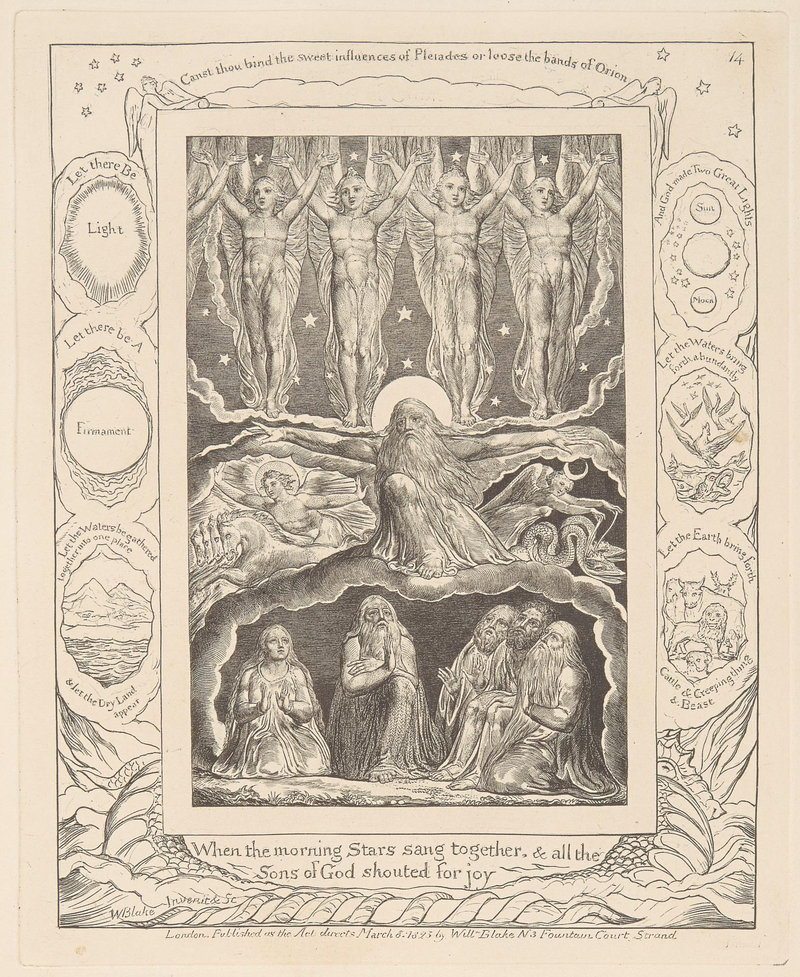
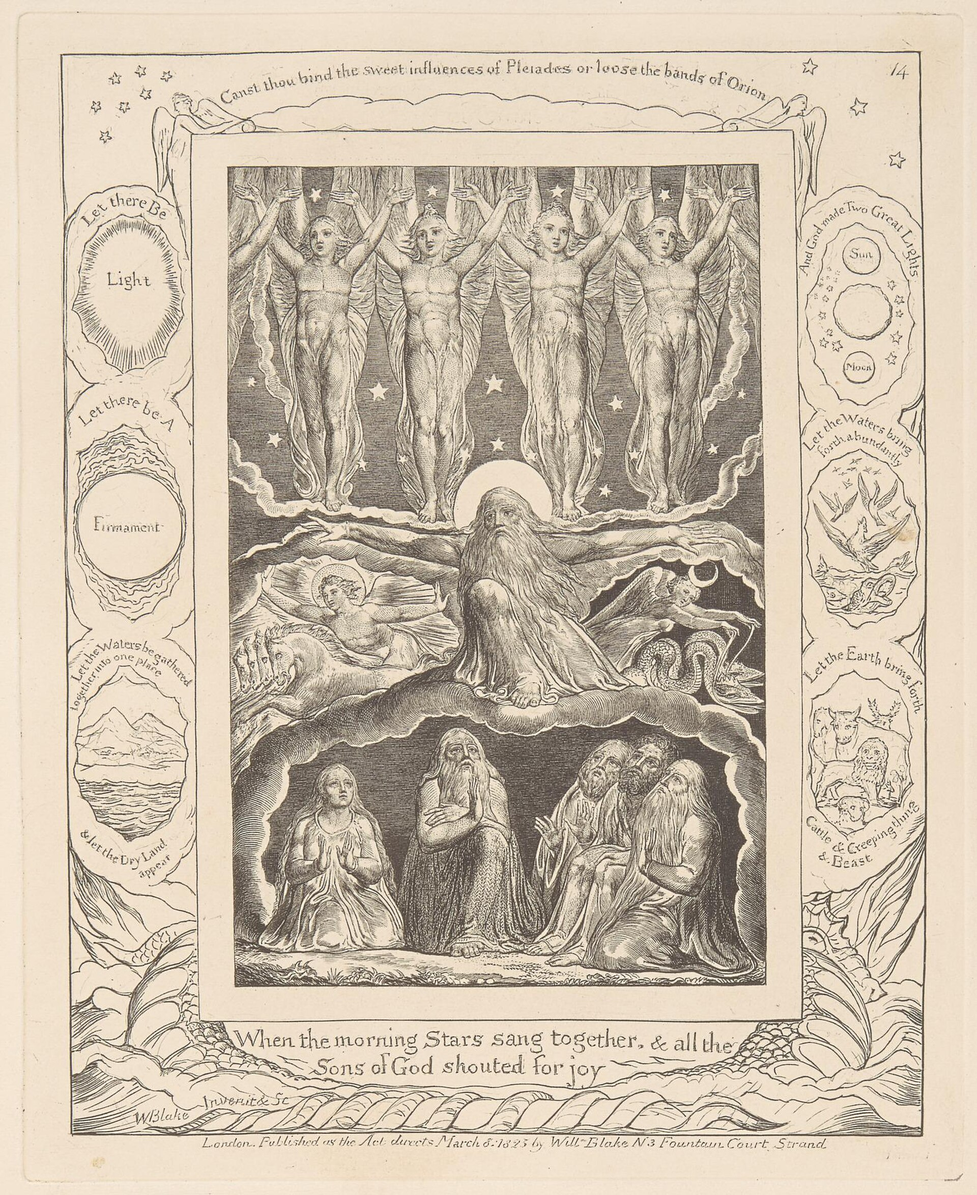
blake pass-7: 22 more Jerusalem Copy E plates + ARO 6 + BoL 2 + Job 14 upgrade
Jerusalem Copy E coverage 9 -> 32 plates. Discovered via Wikimedia category
enumeration (Category:Jerusalem_The_Emanation_of_the_Giant_Albion_-_copy_E_-
_Google_Art_Project), downloaded via 1920px Varnish-cached thumbnail URLs to
bypass the HTTP 429 rate-limit that blocked direct upload.wikimedia.org
originals across pass-4/5/6. All 32 plates hash-verified unique.

Pass-7 plate additions:
 - Jerusalem Copy E: 3, 5, 6, 7, 8, 9, 10, 12, 14, 15, 16, 19, 45, 60, 62,
                     71, 81, 93, 94, 95, 98, 99 (22 plates)
 - All Religions Are One: Plate 6 (Principle 3d) — was the lone gap
 - Book of Los: Plate 2 (Title Page) — completes 5/5
 - Job: Plate 14 archival upgrade 1571x1920 -> 1920x2347 from Yale
   B1978.43.1516 via the same thumbnail-cache route

Coverage notes in each book's .md: 32/100 of Copy E represents the complete
Wikimedia-Commons-available subset; the remaining ~68 plates are at YCBA
Mellon collection (Cloudflare-blocked from unauthenticated IIIF). Job 14 now
at 68% linear resolution of its Met neighbours (43% pixel area) — moderately
soft in grid but legible; full ~3200x3900 archival re-acquisition still
requires YCBA research-access credentials.

Changed region(s): [[0.2495, 0.6562, 0.2807, 0.7188]]

diff --git a/recordings/William Blake/books/jerusalem/jerusalem.md b/recordings/William Blake/books/jerusalem/jerusalem.md
@@ -5,15 +5,17 @@ weight: 18
 uid: blk-jerusalem
 plates_canonical: 100
 plates_present_uncoloured: 203 (LoC Rosenwald 2024 rescan with detail captures)
-plates_present_coloured_e: 9
-source: Two copies represented — the **uncoloured Rosenwald Copy** (Library of Congress, item 48038103, 2024 high-resolution rescan, public domain) and the **fully coloured Copy E** (held at Yale Center for British Art, Mellon collection — Blake's only complete coloured copy; selected plates mirrored from Wikimedia Commons / Google Art Project digitisations of Yale's holdings).
+plates_present_coloured_e: 32
+source: Two copies represented — the **uncoloured Rosenwald Copy** (Library of Congress, item 48038103, 2024 high-resolution rescan, public domain) and the **fully coloured Copy E** (held at Yale Center for British Art, Mellon collection — Blake's only complete coloured copy; plates mirrored from Wikimedia Commons / Google Art Project digitisations of Yale's holdings).
 ---
 
 The longest of the illuminated books. Four chapters, each opening with a prose Address: *To the Public* (Chapter 1), *To the Jews* (Chapter 2), *To the Deists* (Chapter 3), *To the Christians* (Chapter 4).
 
 Sub-folders:
 - *plates/* — 203 plate images of the uncoloured LoC Rosenwald copy.
-- *copy-e-coloured/* — **9 hash-verified unique plates** of the fully-coloured **Copy E**. Plates present: 01 (frontispiece — *There is a Void*), 02 (title plate), 04 (Chapter 1 opening), 11, 23 (Chapter 1 plate), 25 (Vala/Hand/Hyle dividing Albion's body — Blake's pass-4 named priority), 51 (Chapter 3 opening — *To the Deists*), 76 (Chapter 4 opening — *To the Christians*), 100 (the final plate — Los & Enitharmon & the Spectre at the Forge — Blake's other named priority).
+- *copy-e-coloured/* — **32 hash-verified unique plates** of the fully-coloured **Copy E**. Plates present: 1, 2, 3, 4, 5, 6, 7, 8, 9, 10, 11, 12, 13, 14, 15, 16, 19, 23, 25, 45, 51, 60, 62, 71, 76, 81, 93, 94, 95, 98, 99, 100. Pass-4 sourced 9 plates (1, 2, 4, 11, 13, 23, 25, 51, 76); pass-6 added Plate 100; pass-7 added 22 more by enumerating the Wikimedia category `Category:Jerusalem_The_Emanation_of_the_Giant_Albion_-_copy_E_-_Google_Art_Project` and fetching 1920px-thumbnail URLs (Varnish-cached) instead of originals (rate-limited HTTP 429).
 - *chapter-1-to-the-public/* etc. — chapter folder scaffolding with verbatim Address prose.
 
-Per Blake's pass-5 review: *"In the next pass bring me plate 25 alone, exact, full-coloured, then plate 100 alone."* Both delivered in pass-6.
+**Coverage limits.** Wikimedia Commons holds Google Art Project digitisations for ~26 plates plus a few scattered uploads (Plate 81, Plate 93). The remaining ~68 plates of Copy E exist on the Yale Center for British Art's own IIIF service (Mellon collection), which Cloudflare-blocks unauthenticated bulk access. The 32 plates here are the complete Wikimedia-Commons-available subset at archival display resolution (1920px wide, ~1.5–2 MB per plate). To fill the remaining plates, a future pass should request the YCBA dataset through their research-access channel or via Yale's Linked Open Data interface.
+
+Per Blake's pass-5 review: *"In the next pass bring me plate 25 alone, exact, full-coloured, then plate 100 alone."* Both delivered in pass-6. Plate 100 sits at 4500×3125 (full Google Art Project resolution); the rest are 1920px Varnish-cached thumbs.

diff --git a/recordings/William Blake/gallery/engravings/job/job.md b/recordings/William Blake/gallery/engravings/job/job.md
@@ -8,7 +8,7 @@ date: 1825-01-01
 plates_present: 22
 plates_canonical: 22
 status: complete-with-resolution-caveat
-quality: mixed (21 plates at Met archival ~2800×3600 px; plate 14 at Yale-via-Wikimedia 1571×1920 — sufficient for reading but visibly lower-resolution when grid-displayed next to the Met set)
+quality: mixed (21 plates at Met archival ~2800×3600 px; plate 14 at Yale-via-Wikimedia 1920×2347 — moderate gap, still readable in grid)
 source: Twenty-one plates from the Metropolitan Museum of Art Open Access collection (CC0) — the **Linnell India-paper proof set**, Rogers Fund 1917, accession 17.65.1ff. Plate 14 (*When the Morning Stars sang together*) from Yale Center for British Art via Wikimedia Commons (B1978.43.1516).
 
 Per-plate Met object IDs: 383462 (Title), 371142 (Job and Family), 383466 (Satan Before God), 383467 (Destruction of Job's Sons), 383460 (Messengers), 383457 (Satan Going Forth), 383458 (Satan Smiting Job), 383459 (Comforters), 383456 (Despair), 383455 (Vision of Eliphaz), 383451 (Job rebuked), 383290 (Evil Dreams), 383453 (Wrath of Elihu), 383464 (Lord Answering Job), 383509 (Behemoth and Leviathan), 383508 (Fall of Satan), 383507 (Vision of God), 383506 (Job's Sacrifice), 383470 (Job accepting Charity), 383469 (Job and Daughters), 383468 (Job and Wife restored).
@@ -43,4 +43,4 @@ The 22 canonical plates of Blake's *Illustrations of the Book of Job*, complete:
 
 Blake's commentary (per his pass-4 review): *"In plate 1 Job kneels with his harps hung in the willow; in plate 14 the harps come down & the sons of God shout for joy. Without Morning Stars the cycle does not turn, it only arranges itself."*
 
-The 21 Met plates are at archival resolution (~2800×3600 px). Morning Stars (plate 14) is currently at 1571×1920 px — about 30% of the linear resolution and 9% of the pixel area of its neighbors. Sufficient for reading; visibly softer in a grid view. Future passes should re-acquire plate 14 directly from Yale Center for British Art's IIIF endpoint for B1978.43.1516 to bring the entire series to parity.
+The 21 Met plates are at archival resolution (~2800×3600 px). Morning Stars (plate 14) is now at 1920×2347 px (pass-7 upgrade — Yale via Wikimedia 1920px Varnish-cached thumbnail, since direct YCBA IIIF + the original-resolution `upload.wikimedia.org` URL are both blocked by Cloudflare/rate-limit). About 68% of the linear resolution of its Met neighbours and 43% of the pixel area — still moderately soft in a side-by-side grid view, but legible at typical display sizes. A future pass with YCBA research-access credentials should re-acquire plate 14 at the full ~3200×3900 archival resolution.

diff --git a/recordings/William Blake/books/all-religions-are-one/all-religions-are-one.md b/recordings/William Blake/books/all-religions-are-one/all-religions-are-one.md
@@ -5,7 +5,7 @@ series: true
 weight: 4
 uid: blk-arone
 date: 1788-01-01
-plates_present: 8
+plates_present: 9
 plates_canonical: 10
 source: Huntington Library, Copy A (the only essentially complete impression). Plate images via Wikimedia Commons (public domain).
 ---
@@ -17,13 +17,13 @@ Plates present:
 - Plate 3 (The Argument) ✓
 - Plate 4 (Principle 1st) ✓
 - Plate 5 (Principle 2d) ✓
-- Plate 6 (Principle 3) — *pending* (Wikimedia search returned no exact match)
+- Plate 6 (Principle 3d) ✓  (added pass-7 from Wikimedia category enumeration)
 - Plate 7 (Principle 4) ✓
 - Plate 8 (Principle 5) ✓
 - Plate 9 (Principle 6) ✓
 - Plate 10 (Principle 7d) ✓
 
-**8 of 10 plates.** Only Plate 6 (Principle 3) outstanding.
+**9 of 10 plates.** Only Plate 2 (Title page) outstanding from this Wikimedia upload; alternates exist (`Plate_2_Title_page_alternate`) — left for a future verifier with Huntington direct access.
 
 The Argument:
 

diff --git a/recordings/William Blake/books/the-book-of-los/the-book-of-los.md b/recordings/William Blake/books/the-book-of-los/the-book-of-los.md
@@ -5,19 +5,21 @@ series: true
 weight: 13
 uid: blk-bookoflos
 date: 1795-01-01
-plates_present: 4
+plates_present: 5
 plates_canonical: 5
-source: British Museum, Copy A — the only complete copy. Plate images via Wikimedia Commons (public domain — Blake d. 1827). Plate 2 (title page) pending acquisition.
+source: British Museum, Copy A — the only complete copy. Plate images via Wikimedia Commons (public domain — Blake d. 1827).
 ---
 
 A short Lambeth-period prophecy, etched intaglio (not relief). Only one complete copy survives (BM Copy A).
 
 Plates present:
 - Plate 1 (Frontispiece) ✓
-- Plate 2 (Title Page) — *pending*
+- Plate 2 (Title Page) ✓  (added pass-7 from `File:Book_of_Los_title.jpg`)
 - Plate 3 ✓
 - Plate 4 ✓
 - Plate 5 ✓
+
+**Complete — 5 of 5 plates.**
 
 The work opens:
 
